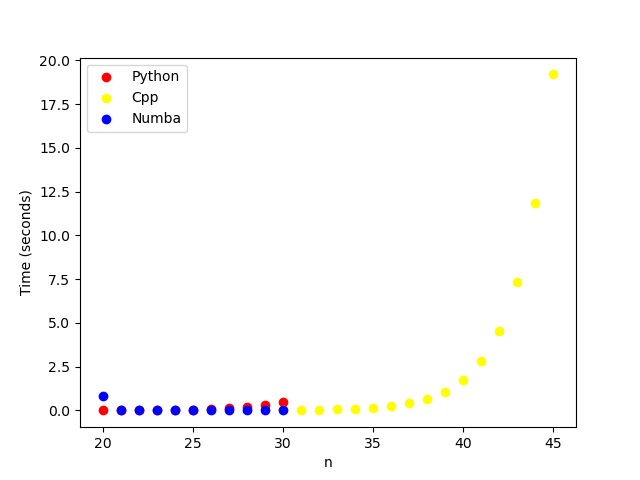
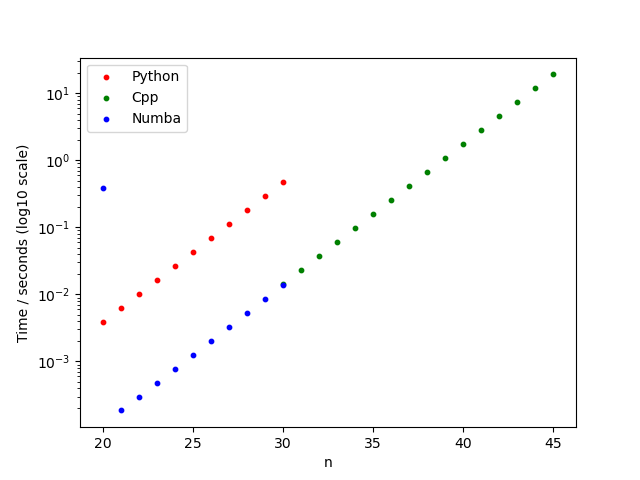
update

diff --git a/MA4/MA4_files/MA4_2.py b/MA4/MA4_files/MA4_2.py
@@ -48,14 +48,15 @@ def main():
         end = pc()
         cpp.append(end - start)
 
-    plt.scatter(list(range(20,31)), py, color='red', label='Python')
-    plt.scatter(list(range(30,46)), cpp, color='yellow', label='Cpp')
-    plt.scatter(list(range(20,31)), nba, color='blue', label='Numba')
+    plt.scatter(list(range(20,31)), py, color='red', label='Python', s=10)
+    plt.scatter(list(range(30,46)), cpp, color='green', label='Cpp', s=10)
+    plt.scatter(list(range(20,31)), nba, color='blue', label='Numba', s=10)
     
     plt.legend()
 
     plt.xlabel('n')
-    plt.ylabel('Time (seconds)')
+    plt.yscale('log')
+    plt.ylabel('Time / seconds (log10 scale)')
 
     plt.savefig('Results.png')
 
